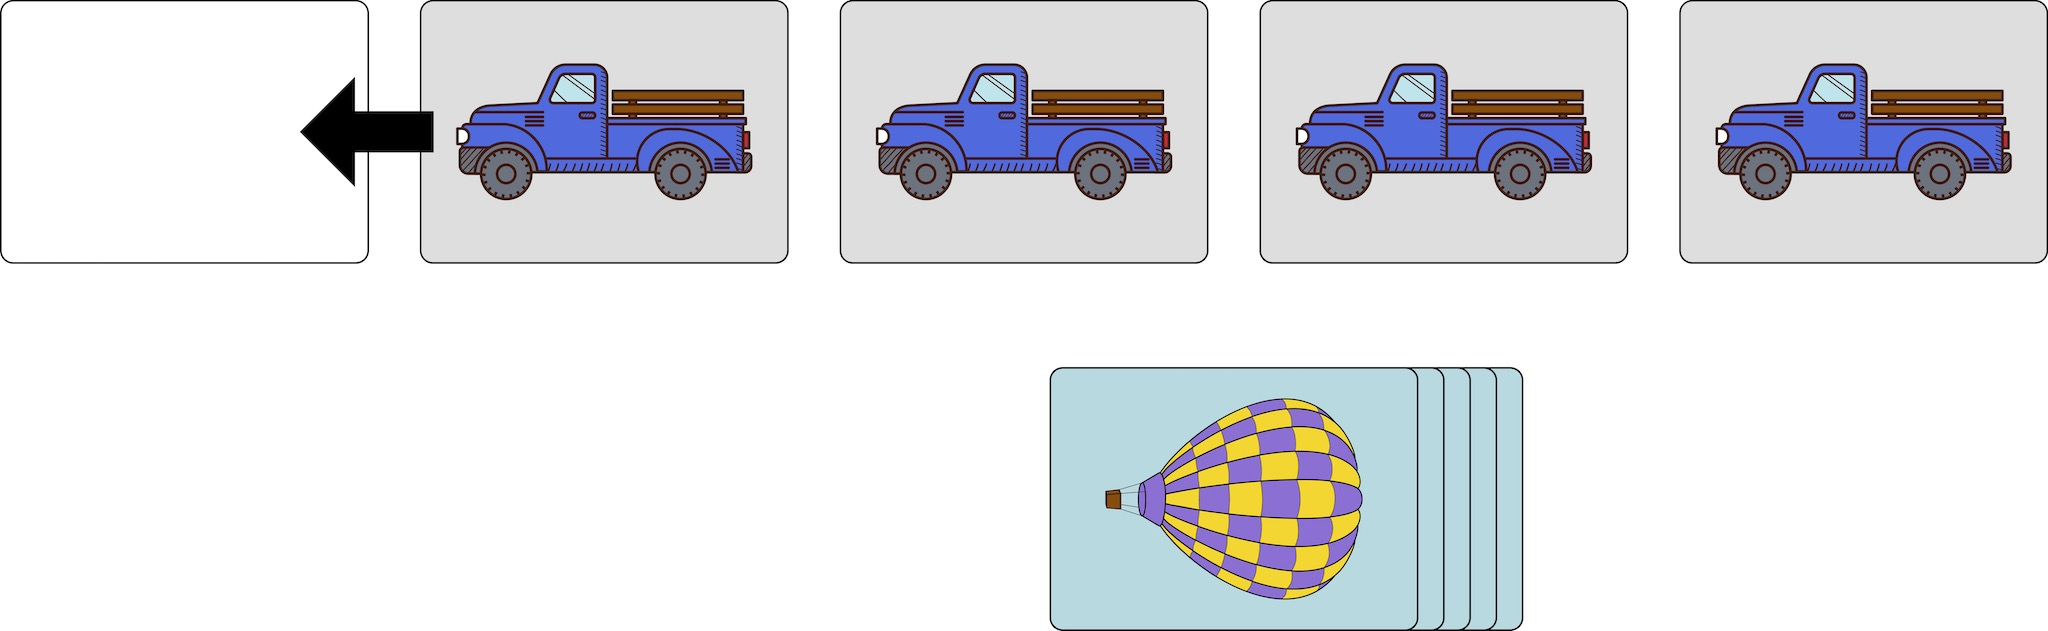
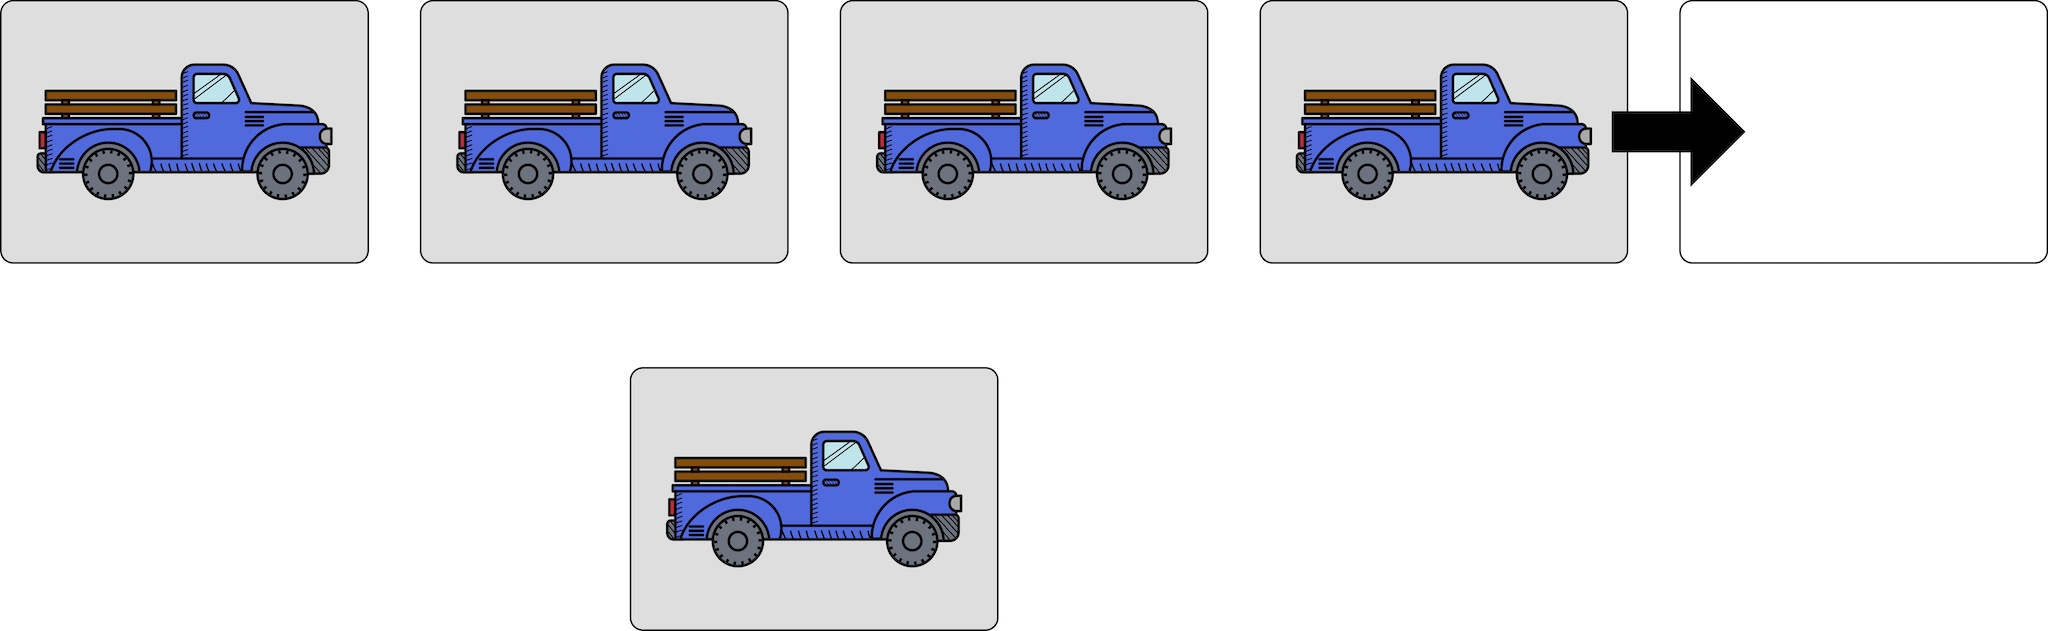
Modify rulebook to describe trucks moving from left to right.

diff --git a/set_up_diagram.tex b/set_up_diagram.tex
@@ -13,28 +13,27 @@
 \foreach \x in {0, -4,-8,...,-44}
  \foreach \y in {0, 4.25, ..., 12.75}
  {
-	\node[cardposition] at (\x,\y) {};
+	\node[cardposition, white] at (\x,\y) {};
 	\node[cardposition, white, dashed] at (\x,\y) {};
  }
 
-\foreach \x/\i in {-44/1, -40/2, -36/3, -32/4, -28/5, -24/6, -20/7, -16/8, -12/9, -8/10, -4/11, 0/12}
-	\node[inner sep = 2cm] at (\x, 17) {{\setmainfont[Scale=5.0]{Titan One}\Huge \i}};
+%\foreach \x/\i in {-44/1, -40/2, -36/3, -32/4, -28/5, -24/6, -20/7, -16/8, -12/9, -8/10, -4/11, 0/12}
+%	\node[inner sep = 2cm] at (\x, 17) {{\setmainfont[Scale=5.0]{Titan One}\Huge \i}};
 
 \foreach \x in {0, -4, ..., -44}
 {
-  \node[cardposition, rotate=90] at (\x, -6) {};
-  \node[cardposition, white, dashed, rotate=90] at (\x, -6) {};
+  \node[cardposition, dashed, rotate=90] at (\x, -6) {};
 }
 
-\foreach \x in {0, -4, -8, -12} {
+\foreach \x in {-32, -36, -40, -44} {
 	\node[truckcard] at (\x, -6) {\includegraphics[width=3.25in]{Images/truck_b.png}};
 %	\node[cardposition] at (\x, -5.5) {};
 }
 
 
-\foreach \x in {-5, -5.25, ..., -6}
-	\node[ballooncard, rotate=90] at (\x, -9.25) {\includegraphics[height=3.25in]{Images/grid_py.png}};
-	
+%\foreach \x in {-5, -5.25, ..., -6}
+%	\node[ballooncard, rotate=90] at (\x, -9.25) {\includegraphics[height=3.25in]{Images/grid_py.png}};
+\node[truckcard] at (-38, -9.25) {\includegraphics[width=3.25in]{Images/truck_b.png}};	
 %	\node[inner sep=1.5in] at (-22, 21) {{\setmainfont[Scale=12.0]{Oi}\Huge Aloft}};
 
 \end{tikzpicture}

diff --git a/wind_diagram_1.tex b/wind_diagram_1.tex
@@ -4,14 +4,14 @@
 
 \begin{document}
 \begin{tikzpicture}[x=1in, y=1in]
-\foreach \x in {0, 4, 8, 12}
+\foreach \x in {-4, 0, 4, 8}
 \node[truckcard] at (\x,0) {\includegraphics[width=3.25in]{Images/truck_b.png}};
-\node[cardposition, rotate=90] at (-4, 0) {};
-\foreach \x in {7, 6.75, ..., 6}
-	\node[ballooncard, rotate=90] at (\x, -3.5) {\includegraphics[height=3.25in]{Images/grid_py.png}};
+\node[cardposition, rotate=90] at (12, 0) {};
+%\foreach \x in {7, 6.75, ..., 6}
+%	\node[ballooncard, rotate=90] at (\x, -3.5) {\includegraphics[height=3.25in]{Images/grid_py.png}};
+\node[truckcard] at (2, -3.5) {\includegraphics[width=3.25in]{Images/truck_b.png}};
 
-
-\pic[rotate=180, transform shape, anchor=west] at (-1.625, 0) {nextarrow};
+\pic[transform shape, anchor=east] at (10.875, 0) {nextarrow};
 
 \end{tikzpicture}
 \end{document}

diff --git a/wind_diagram_2.tex b/wind_diagram_2.tex
@@ -4,14 +4,15 @@
 
 \begin{document}
 \begin{tikzpicture}[x=1in, y=1in]
-\foreach \x in {-4, 4, 8, 12}
+\foreach \x in {-4, 0, 4, 12}
 \node[truckcard] at (\x,0) {\includegraphics[width=3.25in]{Images/truck_b.png}};
-\node[cardposition, rotate=90] at (0, 0) {};
-\foreach \x in {7, 6.75, ..., 6}
-	\node[ballooncard, rotate=90] at (\x, -3.5) {\includegraphics[height=3.25in]{Images/grid_py.png}};
+\node[cardposition, rotate=90] at (8, 0) {};
+%\foreach \x in {7, 6.75, ..., 6}
+%	\node[ballooncard, rotate=90] at (\x, -3.5) {\includegraphics[height=3.25in]{Images/grid_py.png}};
+\node[truckcard] at (2,-3.5) {\includegraphics[width=3.25in]{Images/truck_b.png}};
 
 
-\pic[rotate=180, transform shape, anchor=west] at (2.375, 0) {nextarrow};
+\pic[transform shape, anchor=west] at (5.625, 0) {nextarrow};
 
 \end{tikzpicture}
 \end{document}

diff --git a/wind_diagram_3.tex b/wind_diagram_3.tex
@@ -7,11 +7,12 @@
 \foreach \x in {-4, 0, 4, 8}
 \node[truckcard] at (\x,0) {\includegraphics[width=3.25in]{Images/truck_b.png}};
 \node[cardposition, rotate=90] at (2, -3.5) {};
-\foreach \x in {7, 6.75, ..., 6}
-	\node[ballooncard, rotate=90] at (\x, -3.5) {\includegraphics[height=3.25in]{Images/grid_py.png}};
+%\foreach \x in {7, 6.75, ..., 6}
+%	\node[ballooncard, rotate=90] at (\x, -3.5) {\includegraphics[height=3.25in]{Images/grid_py.png}};
+\node[truckcard] at (-2,-3.5) {\includegraphics[width=3.25in]{Images/truck_b.png}};
 
 
-\pic[rotate=180, transform shape, anchor=west] at (4.375, -3.5) {nextarrow};
+\pic[transform shape, anchor=east] at (0.875, -3.5) {nextarrow};
 
 \end{tikzpicture}
 \end{document}

diff --git a/README.md b/README.md
@@ -10,7 +10,8 @@ During the game, you will launch a flight of hot-air balloons. You can play eith
   - 13 balloon cards
      - 10 regular balloon cards
      - 3 special shape cards
-  - 5 truck cards
+  - 13 scoring tokens
+  - 6 truck cards
   - 5 colour cards
   - 1 game board
 
@@ -18,16 +19,17 @@ The number of cards of each type that you will use in your game depends on the h
 
 | Player Count | 1 | 2 | 3 | 4| 5 |
 | ----------: | ---: | ---: | ---: | ---: | ---: |
-| Regular Balloon Cards | 10 | 10 | 10 | 10 | 10
-| Special Shape Cards | 2 | 0 | 1 | 2 | 3 |
-| Truck Cards | 4 | 4 | 4 | 4 | 5 |
-| Colour Cards | 0 | 2 | 3| 4| 5| 
+| Regular Balloon Cards | 10 | 10 | 10 | 10 | 10 |
+| Special Shape Cards | 2 | 2 | 2 | 2 | 3 |
+| Truck Cards | 5 | 5 | 5 | 5 | 6 |
+| Colour Cards | 5 | 5 | 5 | 5 | 5 | 
 
 
 ## Set Up
   1. If you are playing a competitive game, deal one colour card at random to each player. Your colour card will determine the colour of balloons with which you are _affiliated_. Do not reveal this card to the other players until the end of the game. If you are playing a cooperative game, then you should skip this step.
      - Each regular balloon card is affiliated with two of the five possible colours.  The colours that a balloon card is affiliated with are the colours of the envelope of the balloon depicted on that card. Special shape cards are not affiliated with any colour. 
-  2.  Place the truck cards in a single row below the right-hand side of the game board. These cards will comprise the _launch zone_.
+  2.  Set one truck card aside. Place the remaining truck cards in a single row below the left-hand side of the game board. These truck cards comprise the _launch zone_.
+  3. Place the truck card that you set aside in the previous set below the middle of the launch zone. This truck card is the _safety vehicle_.
   3.  Collect the regular balloon cards and special shape cards that you will use during your game (see Components above for details). These cards will comprise the _balloon deck_.
   4.  If you are playing a cooperative game, shuffle the balloon deck. If you are playing a competitive game, then you should skip this step. 
   5.  Place the balloon deck below the launch zone. The balloon deck should be face up and centered on the launch zone.
@@ -35,20 +37,20 @@ The number of cards of each type that you will use in your game depends on the h
 ![Set up for a four-player game.](set_up_diagram.jpg)
 
 ## Gameplay
-On your turn, two things will happen:
-  1. You will advance one balloon.
-  2. If any balloons are flying, the wind blows.
+On your turn, you will perform two actions:
+  1. Advance a balloon.
+  2. If at least one balloon is flying, move a truck.
 
-The game ends when all of the balloons are flying or when the all of the truck cards have moved past the leftmost column of the play area.
+The game ends when all of the balloons are flying or when a truck card has moved past the rightmost column of the tableau.
 
 ### Advance a Balloon
 Throughout the game, each balloon will progress through a series of states: packed, unpacked, inflated, and flying at various altitudes. On your turn, you can advance any one balloon of your choice. If you cannot advance any of the balloons, then you should skip this step.
 
 To advance a balloon, you move a balloon from its current state to the next. 
   - All balloons begin in the packed state. All balloons in the packed state should be in the balloon deck.
-  - To advance a balloon from the packed state to the unpacked state, you should remove it from the balloon deck and place it horizontally on one of the truck cards.
-     - In a cooperative game, you may only advance the first balloon (top card) in the balloon deck.
-     - In a competitive game, you may advance any balloon in the balloon deck.
+  - To advance a balloon from the packed state to the unpacked state, you should remove it from the balloon deck and place it horizontally on one of the truck cards in the lauch zone. You may not place a balloon on the safety vehicle.
+     - In a cooperative game, you may only unpack the first balloon (top card of the balloon deck) which is in the packed state.
+     - In a competitive game, you may unpack any balloon which is in the packed state.
 - To advance a balloon from the unpacked state to the inflated state, you should turn it so that it placed vertically on its truck card.
 - To advance a balloon from the inflated state to the flying state, you should slide it into the bottom row of the play area directly above its truck card. It will then be flying at an altitude of one.
    - Balloons that are flying (at any altitude) may never be orthogonally adjacent to another balloon which is flying.
@@ -57,36 +59,36 @@ To advance a balloon, you move a balloon from its current state to the next.
    - The maximum altitude at which balloons can fly is four.
    - Balloons never descend (decrease their altitude) or move horizontally. 
 
-### The Wind Blows
-If any balloons are flying, then after you advance a balloon the wind will blow. The wind always blows from the left to right over the launch zone and it changes the position of balloons that are flying relative to the launch zone. Rather than move the balloons which are flying, however, you will move the launch zone from right to left (in the opposite direction of the wind) to model this effect.
+### Move a Truck
+If any balloons are flying, then after you advance a balloon you will move a truck. Trucks always move from left to right. The game ends when the lead truck moves past the rightmost column of the tableau.
 
 When the wind blows, you will do one of the following:
-  - If the truck cards are in adjacent columns and the balloon deck is centered on the launch zone (e.g. the starting position), or if there are no cards remaining in the balloon deck, then you should move the leftmost truck one column to the left.
+  - If the truck cards are in adjacent columns and the safety vehicle is centered on the launch zone (e.g. the starting position), or if there are no cards remaining in the balloon deck, then you should move the rightmost truck one column to the right.
 
   ![The wind blows when the trucks are in a single group and the baloon deck is centered on the launch zone.](wind_diagram_1.jpg)
 
-  - If the truck cards are not in adjacent columns, then the truck cards will be in two groups which are separated by one empty column. You should slide the leftmost truck from the second group one column to the left. It should then be the rightmost truck in the first group.
+  - If the truck cards are not in adjacent columns, then the truck cards will be in two groups which are separated by one empty column. You should slide the rightmost truck from the first group one column to the right. It should then be the leftmost truck in the second group.
 
   ![The wind blows when the trucks are in two groups.](wind_diagram_2.jpg)
 
-  - If all of the truck cards are in adjacent rows, but the balloon deck is not centered on the launch zone (e.g. after each of the truck cards has been moved one time), then you should slide the balloon deck one position to the left so that it is centered on the launch zone.
+  - If all of the truck cards are in adjacent rows, but the safety vehicle is not centered on the launch zone (e.g. after each of the truck cards has been moved one time), then you should slide the safety vehicle one position to the right so that it is centered on the launch zone.
 
   ![The wind blows when the trucks are in a single group and the baloon deck is not centered on the launch zone.](wind_diagram_3.jpg)
 
-__Note:__ Any balloon cards that have been placed on a truck card (i.e. that are in the unpacked or inflated states) that moves when the wind blows should be moved as well. 
+__Note:__ Any balloon cards that have been placed on a truck card (i.e. balloons that are in the unpacked or inflated states) should accompany that truck card if/when it moves. 
 
 ## Scoring
 After the game ends, you should compute your score.
 
 ### Cooperative Game
-In a cooperative game, your score is number of adjacent columns required to contain the formation (i.e. the width of the formation) when all of the balloons are flying. If you were unable to launch all of the balloons during the game, your score is equal to the width of the formation plus the number of balloons that you were unable to launch. Your objective is to minimize your score.
+In a cooperative game, your score is number of adjacent columns required to contain the formation (i.e. the width of the formation) when all of the balloons are flying. If you were unable to launch all of the balloons during the game, your score is equal to the width of the formation plus two times the number of balloons that you were unable to launch. Your objective is to minimize your score.
 
 ### Competitive Game
 In a competitive game, each balloon scores a number of points that is determined by its position within the formation. In general, balloons that are flying at higher altitudes score more points than those that are flying at lower alititudes.  If balloons are flying at the same altitude, then the balloons that are closer to the front (right-hand side) of the formation score more points than the balloons that are closer to the back (left-hand side) of the formation. 
 
-More precisely, each balloon scores a number of points equal to one plus the number of balloons flying at a lower altitude than itself plus the number of balloons flying at the same altitude as itself but behind it (to the left) in the formation.
+More precisely, each balloon scores a number of points equal to one plus the number of balloons flying at a lower altitude than itself plus the number of balloons flying at the same altitude as itself but behind it (to the left) in the formation. You should use the scoring tokens to indicate how many points each balloon scores.
 
 For example, the leftmost balloon in the bottom row of the formation always scores one point while the rightmost balloon in the top row of the formation scores one point for every balloon that is flying at the end of the game.  
 
-Your score is the sum of the scores for all of the balloons with which you are affiliated. You should reveal your colour card when you announce your score so that everyone can verify that the required computations have been performed correctly. The player with the highest score wins.
+Your score is the sum of the scores for all of the balloons with which you are affiliated. You should reveal your colour card when you announce your score so that everyone can verify that the required computations have been performed correctly. The player with the highest score wins the game.
 
